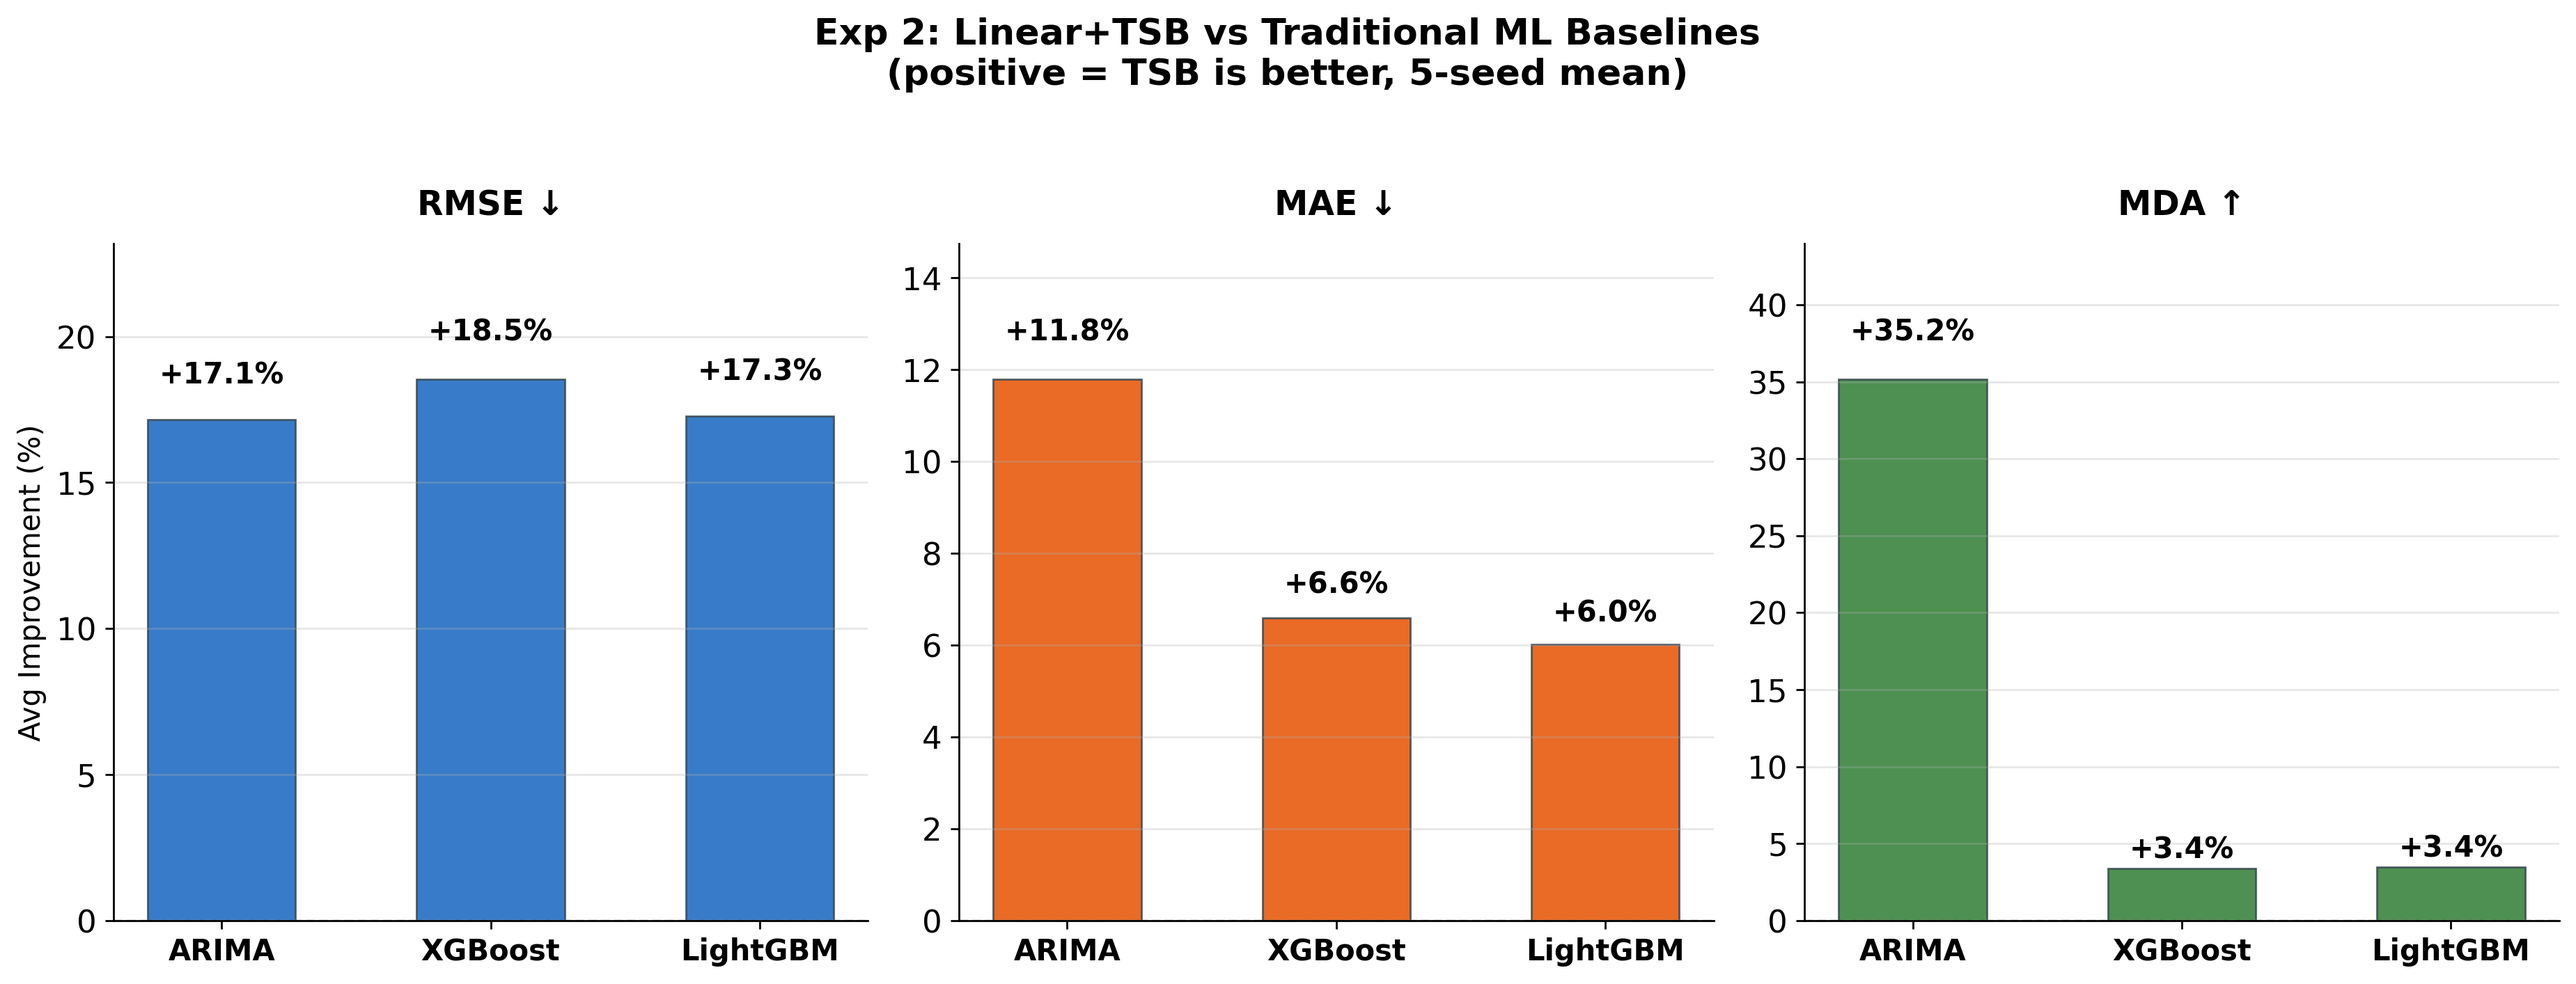
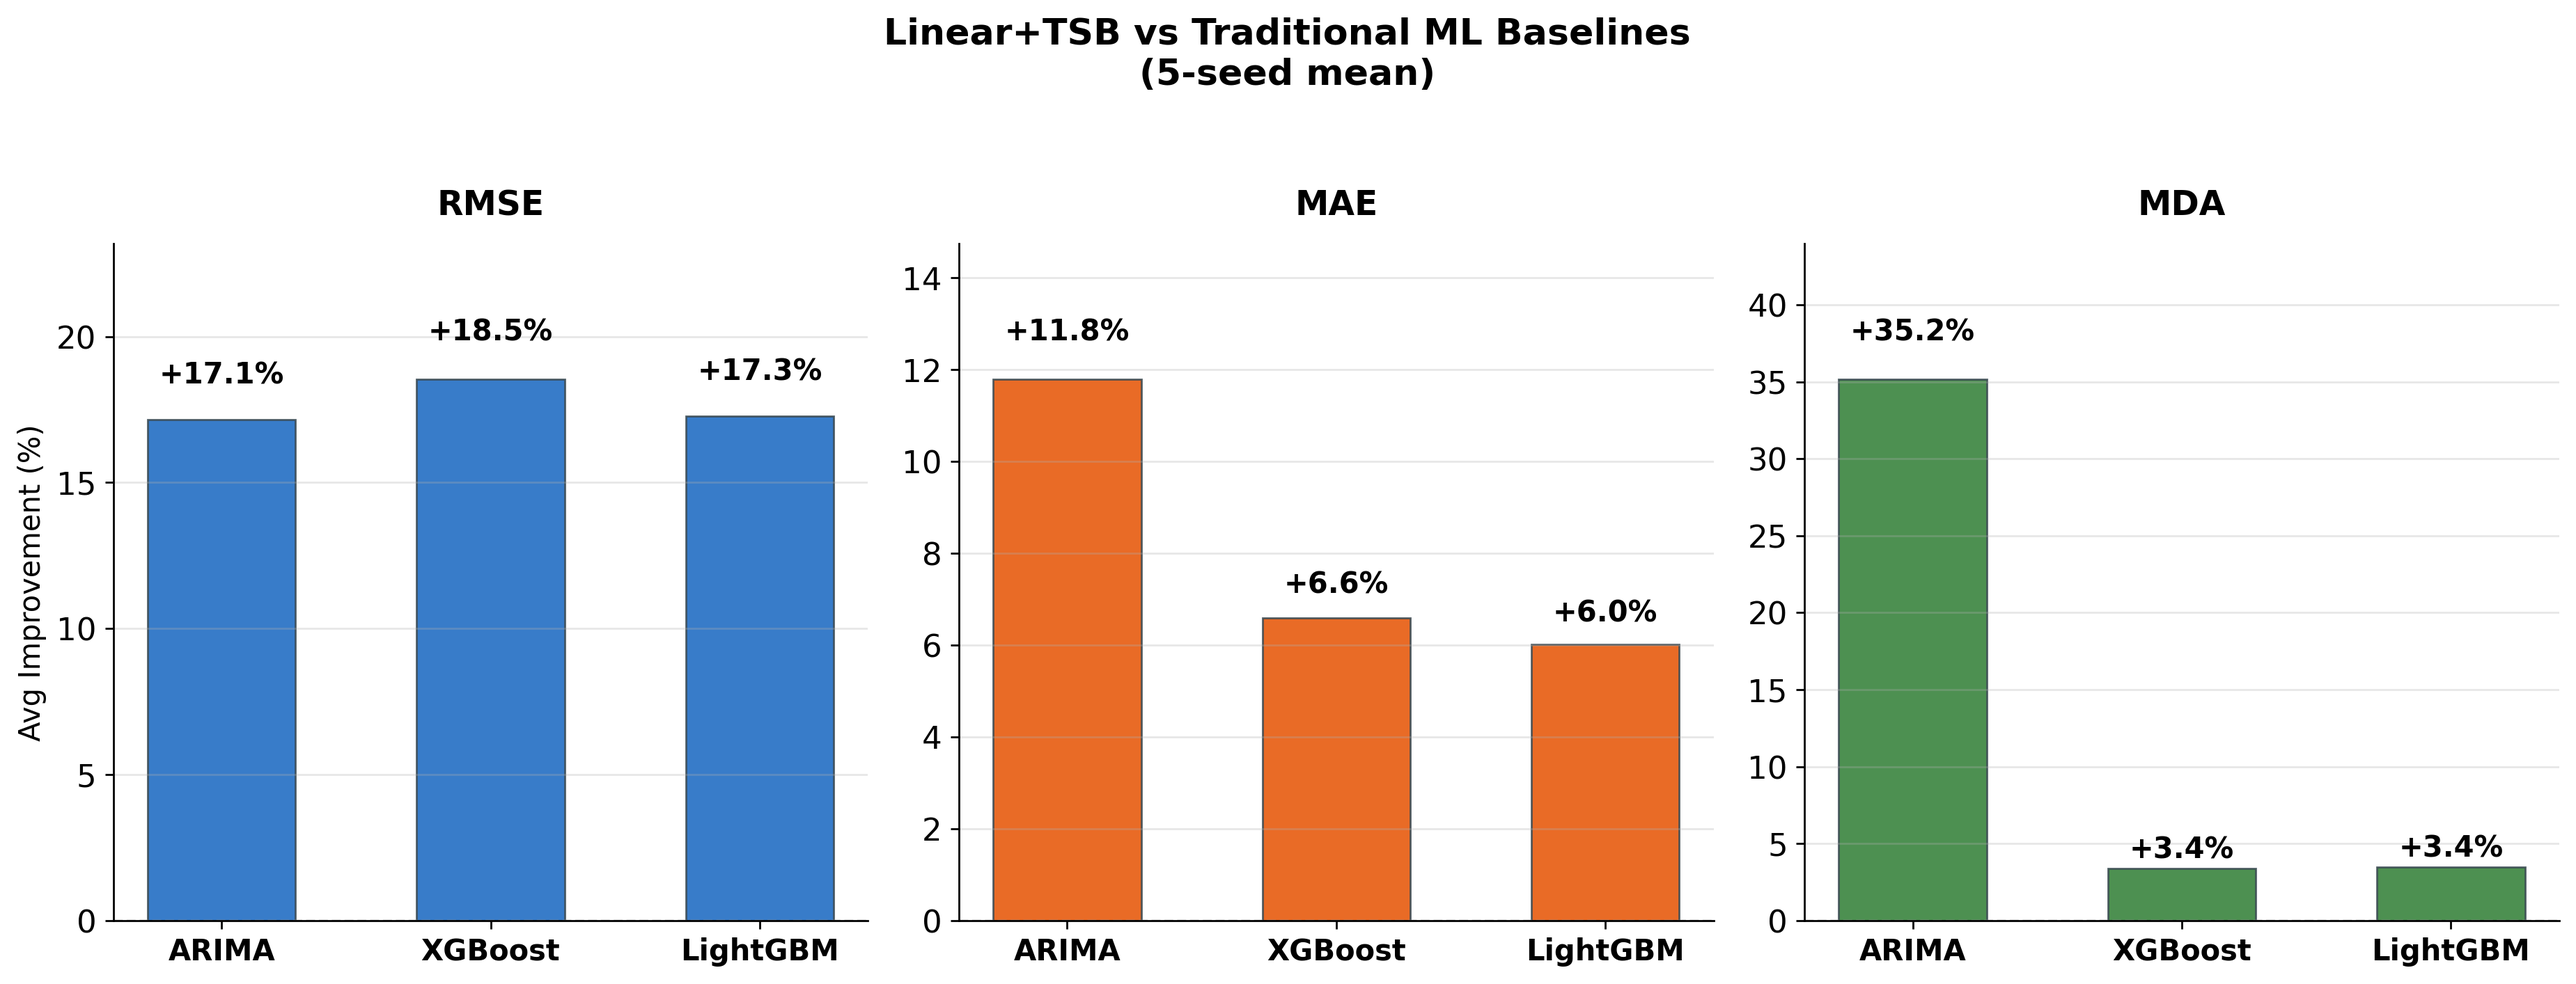
update

diff --git a/experiments/generate_slides_figures.py b/experiments/generate_slides_figures.py
@@ -112,7 +112,7 @@ def exp1_overall(cb):
     Fig 1b: Win count breakdown (out of 16) per backbone per metric.
     """
     metrics = ['rmse_imp', 'mae_imp', 'mda_imp']
-    metric_labels = ['RMSE ↓', 'MAE ↓', 'MDA ↑']
+    metric_labels = ['RMSE', 'MAE', 'MDA']
     is_mda = [False, False, True]
 
     # --- Fig 1a: Compact heatmap ---
@@ -221,7 +221,7 @@ def _exp_vs_baselines(results, tsb_method, competitors, comp_colors,
     Shows avg improvement of TSB over each competitor + win counts.
     """
     metrics = ['rmse', 'mae', 'mda']
-    metric_labels = ['RMSE ↓', 'MAE ↓', 'MDA ↑']
+    metric_labels = ['RMSE', 'MAE', 'MDA']
     is_mda = [False, False, True]
 
     # 3 subplots (one per metric), each showing bars per competitor
@@ -284,8 +284,8 @@ def exp2_vs_ml(bench):
         bench, 'Linear+TSB',
         competitors=['ARIMA', 'XGBoost', 'LightGBM'],
         comp_colors=['#9E9E9E', '#FF7043', '#66BB6A'],
-        title='Exp 2: Linear+TSB vs Traditional ML Baselines\n'
-              '(positive = TSB is better, 5-seed mean)',
+        title='Linear+TSB vs Traditional ML Baselines\n'
+              '(5-seed mean)',
         filename='exp2_vs_ml.png',
     )
 
@@ -296,8 +296,8 @@ def exp3_vs_dl(sota):
         sota, 'Linear+TSB',
         competitors=['DLinear', 'PatchTST', 'iTransformer'],
         comp_colors=['#FF9800', '#00ACC1', '#E91E63'],
-        title='Exp 3: Linear+TSB vs SOTA DL Models\n'
-              '(positive = TSB is better, 5-seed mean)',
+        title='Linear+TSB vs SOTA DL Models\n'
+              '(5-seed mean)',
         filename='exp3_vs_dl.png',
     )
 
